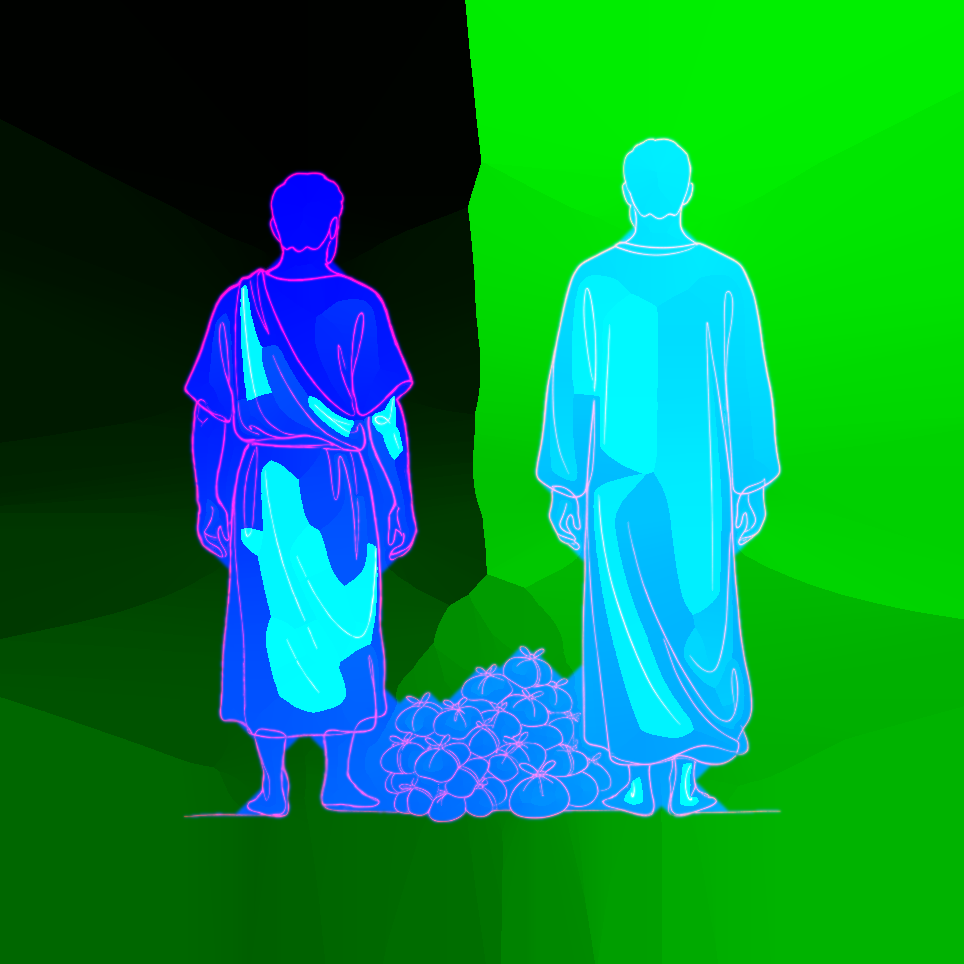
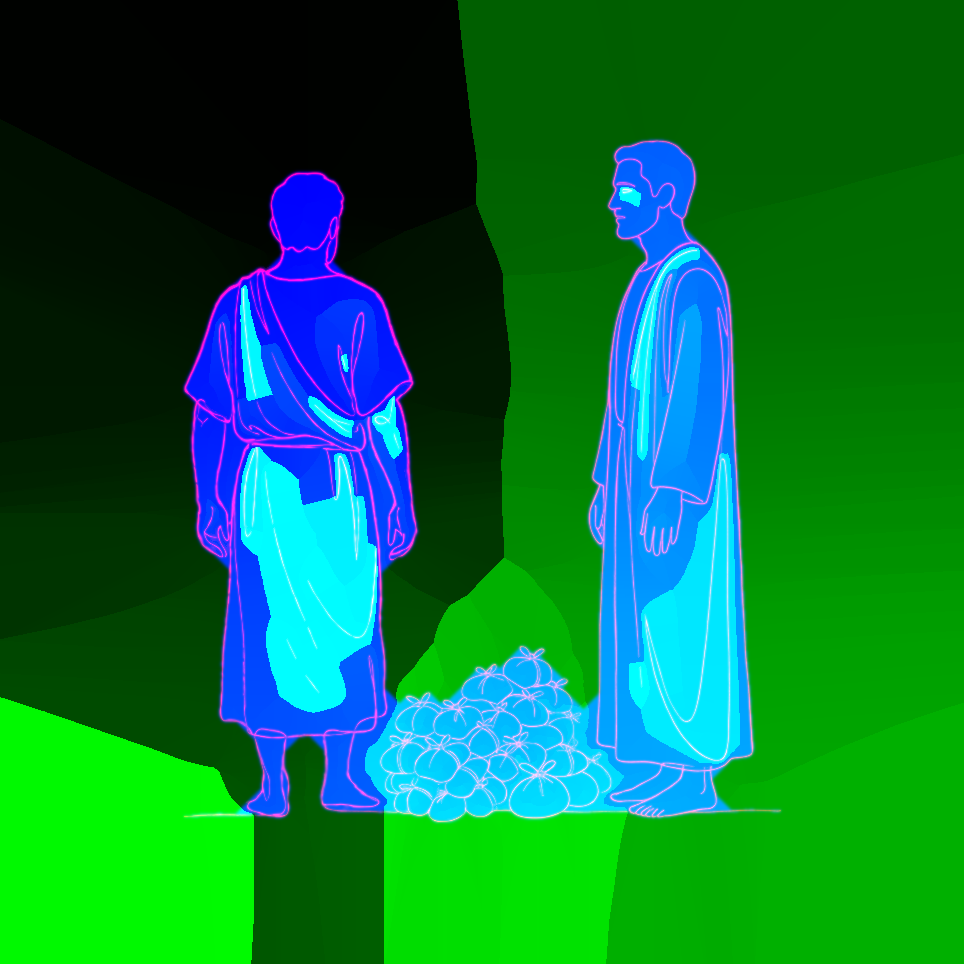
Recap walk L19: sun rises behind him and the freed man faces him (Jason: show both ideas)
Claude-Session: https://claude.ai/code/session_01PUXW98g7GeRrNVaktcGhRj

diff --git a/tools/recap-video/places/l19.js b/tools/recap-video/places/l19.js
@@ -1,27 +1,28 @@
 // Lesson 19 (short stop): whoever makes a thing says what it's for; healing on the Sabbath claimed the day as his.
-// One detail: on an open morning a man is bent under a heap of small added parcels. A figure from behind lifts them off and sets
-// them down; the man stands up. The sun keeps rising the whole time. No bars, no gates, nothing thrown.
+// Two beats. The burden: a figure from behind lifts small added parcels off a bent man and sets them down (key).
+// The claim: a bar later the man, upright, turns to face the figure, and an ordinary sun comes up directly behind the figure, who
+// never moves. The day brightens from where he stands. No gesture, no halo: the disc is far wider than he is and its rim clears his head.
 export default async function (P) {
   await P.loadArt();
-  const D = 6.5, Z = P.Z - D, cam = P.camera, L = P.beats(1), H = 5.3, Y0 = -0.85, SKYD = 64;
-  const key = P.ev('key', 1, 1), up = P.ev('he stands', 2, 1);
-  const x = P.X + (P.pathX(P.Z - 12) - P.X) * D / 12 + 0.25, o = { y0: Y0, gain: 1.5, sil: 0.6, fadeNear: false, turn: false };   // nudged so the road runs in the gap between the men
-  const load = P.art('load', x, Z, H, { ...o, far: 26, near: 10 }), lift = P.art('lift', x, Z, H, { ...o, drawn: true }), free = P.art('free', x, Z, H, { ...o, drawn: true, sil: 0.3 });
-  // the sun comes up over the horizon: canvas bottom edge sits at eye height, so the disc is cut off by the horizon
-  const SW = 40, SH = 16, PX = 20, R = 130, sun = P.thing(0, 0, SW, SH, PX, (c, p, t) => { const w = c.canvas.width, h = c.canvas.height, cx = w / 2, cy = h - lerp(-R * 0.55, R * 0.55, seg(t, P.T.start, P.T.end));
-    c.strokeStyle = '#f0d4a8'; c.lineCap = 'round'; c.lineWidth = 3; c.globalAlpha = 0.95; c.beginPath(); c.arc(cx, cy, R, 0, 6.3); c.stroke();
-    c.lineWidth = 2; c.globalAlpha = 0.6; for (let k = 0; k < 13; k++) { const a = Math.PI * (k + 0.5) / 13 + Math.PI, r0 = R + 26, r1 = R + 58 + 26 * (k % 2); c.beginPath(); c.moveTo(cx + Math.cos(a) * r0, cy + Math.sin(a) * r0); c.lineTo(cx + Math.cos(a) * r1, cy + Math.sin(a) * r1); c.stroke(); }
-    c.globalAlpha = 1; }, { live: true, far: 1e6, near: 0, fog: false, turn: false });
+  const D = 6.5, Z = P.Z - D, cam = P.camera, L = P.beats(1), H = 5, Y0 = -0.8, SKYD = 64;
+  const key = P.ev('key', 1, 1), up = P.ev('sun up behind him', 2, 1);
+  const figX = P.X + (P.pathX(P.Z - 12) - P.X) * D / 12 - 0.2, x = figX + 0.875, o = { y0: Y0, gain: 1.5, sil: 0.6, fadeNear: false, turn: false };   // he stands on the road, centre screen
+  const load = P.art('load', x, Z, H, { ...o, far: 26, near: 10 }), lift = P.art('lift', x, Z, H, { ...o, drawn: true }), free = P.art('free', x, Z, H, { ...o, drawn: true });
+  // canvas bottom edge sits at eye height, so the horizon cuts the disc off. It only ever rises; a ray through the figure keeps it behind him.
+  const SW = 40, SH = 16, PX = 20, R = 285, rise = t => -1.02 + 1.02 * P.smooth(seg(t, up, up + L * 3));   // below the horizon until its downbeat, only its glow before that
+  const sun = P.thing(0, 0, SW, SH, PX, (c, p, t) => { const w = c.canvas.width, h = c.canvas.height, cy = h - rise(t) * R;
+    c.fillStyle = '#f0d4a8'; c.globalAlpha = 0.07; c.beginPath(); c.arc(w / 2, cy, R, 0, 6.3); c.fill();
+    c.strokeStyle = '#f0d4a8'; c.lineWidth = 3; c.globalAlpha = 0.9; c.beginPath(); c.arc(w / 2, cy, R, 0, 6.3); c.stroke(); c.globalAlpha = 1; }, { live: true, far: 1e6, near: 0, fog: false, turn: false });
   sun.mesh.renderOrder = -9; sun.mesh.material.transparent = true;
-  const dawn = P.glow(0, 0, 0, 34, 0), lit = P.pool(x, Z + 1, 16, 12, 0);
+  const dawn = P.glow(0, 0, 0, 44, 0), lit = P.pool(figX, Z + 0.5, 18, 13, 0);
   P.keep(free, { h: 4.6, y: -0.74, x: P.X, z: Z });
   return { update(t) {
-    const inK = seg(t, P.T.start, P.T.arrive), out = 1 - seg(t, P.T.leave, P.T.leave + L), a1 = seg(t, key, key + L), a2 = seg(t, up, up + L), breath = 1.5 + 0.2 * P.hit('guitar', t);
+    const inK = seg(t, P.T.start, P.T.arrive), out = 1 - seg(t, P.T.leave, P.T.leave + L), a1 = seg(t, key, key + L), a2 = seg(t, up, up + L), day = seg(t, up, up + L * 3), breath = 1.5 + 0.2 * P.hit('guitar', t);
     load.u.uA.value = (1 - a1) * inK * out; lift.u.uA.value = a1 * (1 - a2) * out; free.u.uA.value = a2 * out;
     load.u.uGain.value = lift.u.uGain.value = free.u.uGain.value = breath;
-    const dirX = (P.pathX(cam.position.z - 12) - cam.position.x) / 12, sx = cam.position.x + dirX * SKYD, sz = cam.position.z - SKYD, day = seg(t, P.T.start, P.T.end);
+    const dist = Math.max(cam.position.z - Z, 1), sx = cam.position.x + (figX - cam.position.x) * SKYD / dist, sz = cam.position.z - SKYD;
     sun.mesh.position.set(sx, 2.6 + SH / 2, sz); sun.mesh.material.opacity = inK * out;
-    dawn.position.set(sx, 8, sz + 1); dawn.material.opacity = (0.12 + 0.3 * day + 0.05 * P.listen('swell', t)) * inK * out;
-    lit.material.opacity = (0.05 + 0.2 * a2 + 0.04 * P.listen('keys', t)) * out;
+    dawn.position.set(sx, 2.6, sz + 1); dawn.material.opacity = (0.1 + 0.32 * day + 0.05 * P.listen('swell', t)) * inK * out;
+    lit.material.opacity = (0.04 + 0.3 * day + 0.04 * P.listen('keys', t)) * out;
   } };
 }
